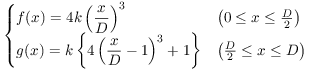
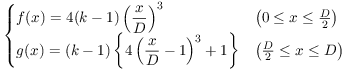
Change k behavior

Changed region(s): [[0.0, 0.0, 0.9871, 0.9722], [0.6968, 0.1111, 0.9871, 0.3889]]

diff --git a/cubic_formula_int.tex b/cubic_formula_int.tex
@@ -10,10 +10,10 @@
 \begin{document}
 $
   \begin{cases}
-    \displaystyle \int_0^x f(x) dx = k\frac{x^4}{D^3} 
+    \displaystyle \int_0^x f(x) dx = (k-1)\frac{x^4}{D^3} 
       & \left(0 \leq x \leq \frac{D}{2}\right)
     \\
-    \displaystyle \int_0^x g(x) dx = k\left( \frac{x^4}{D^3} - \frac{4x^3}{D^2} + \frac{6x^2}{D} - 3x + \frac{D}{2} \right) 
+    \displaystyle \int_0^x g(x) dx = (k-1)\left( \frac{x^4}{D^3} - \frac{4x^3}{D^2} + \frac{6x^2}{D} - 3x + \frac{D}{2} \right) 
       & \left(\frac{D}{2} \leq x \leq D\right)
   \end{cases}
 $

diff --git a/cubic_formula.tex b/cubic_formula.tex
@@ -10,10 +10,10 @@
 \begin{document}
 $
   \begin{cases}
-    \displaystyle f(x) = 4k\left(\frac{x}{D}\right)^{3}
+    \displaystyle f(x) = 4(k-1)\left(\frac{x}{D}\right)^{3}
       & \left(0 \leq x \leq \frac{D}{2}\right)
     \\
-    \displaystyle g(x) = k\left\{4\left(\frac{x}{D} - 1\right)^{3} + 1\right\}
+    \displaystyle g(x) = (k-1)\left\{4\left(\frac{x}{D} - 1\right)^{3} + 1\right\}
       & \left(\frac{D}{2} \leq x \leq D\right)
   \end{cases}
 $
